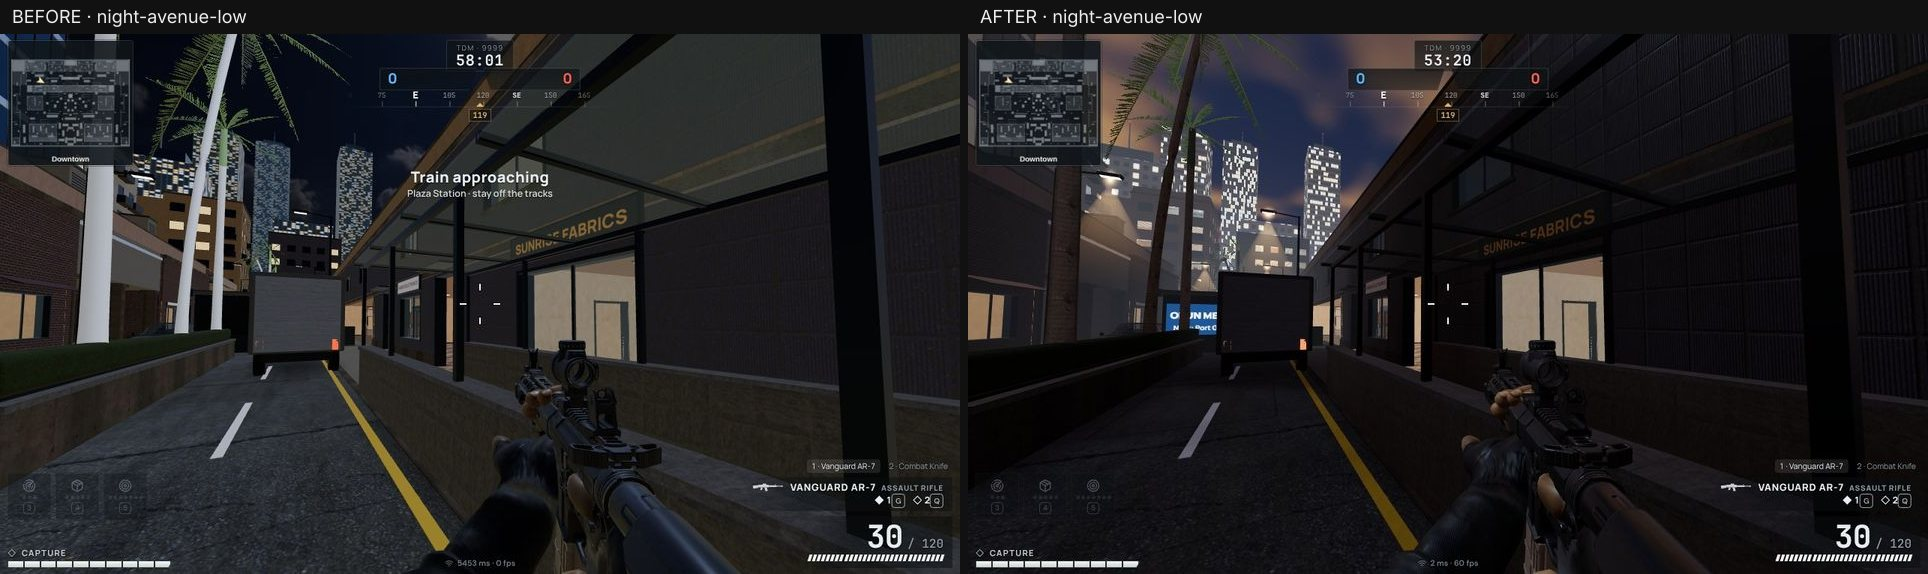
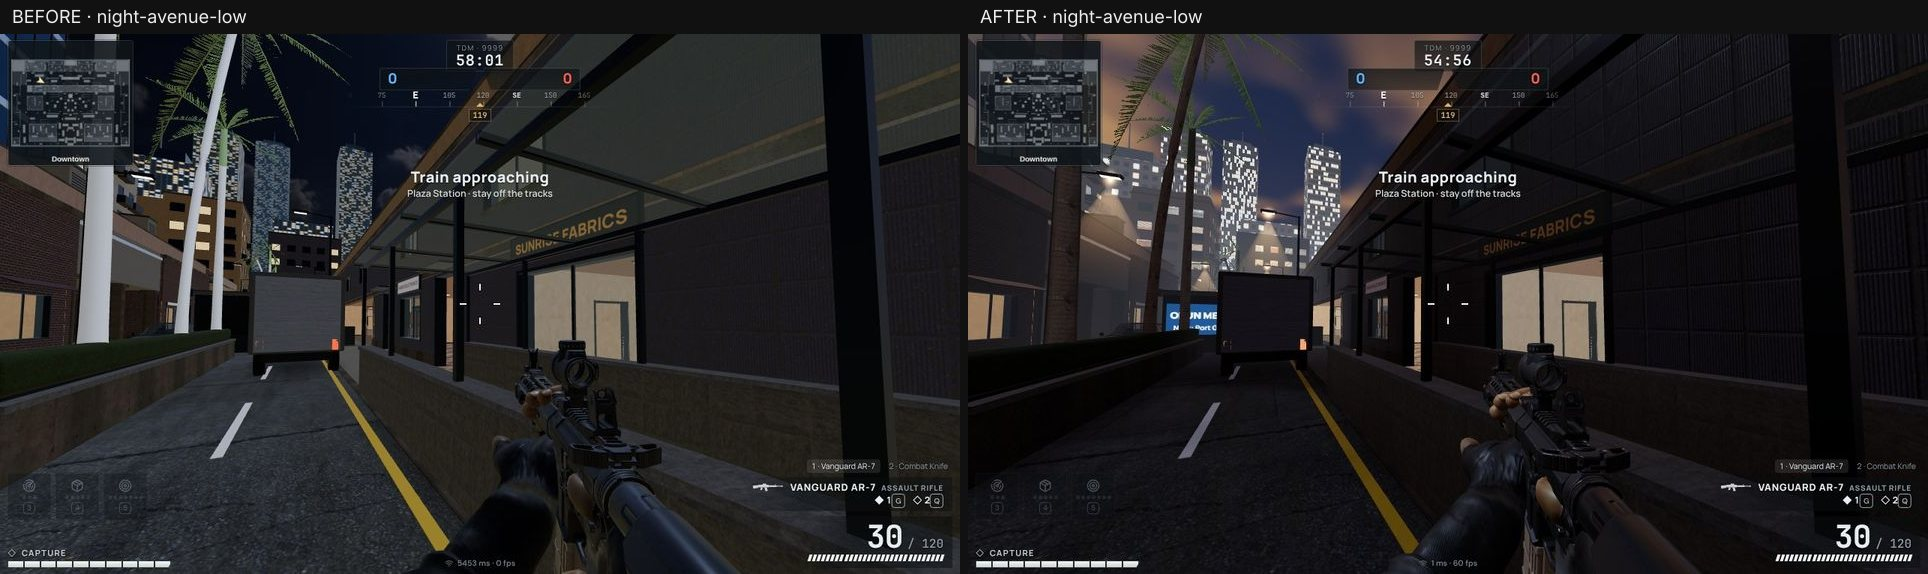
Metropolis: stagger reflection and shadow passes on High; final captures, sheets and report
Final before/after captures (Low full resolution; High at 50 % render scale for both
sets), comparison sheets, measured draw-call and triangle tables, profile table, and
what remains. Splashes toned down on dark surfaces.

Claude-Session: https://claude.ai/code/session_01UdreyfsdfdWfz82hBMYpLk

diff --git a/src/arena/Scene.tsx b/src/arena/Scene.tsx
@@ -713,7 +713,7 @@ function World({ mapId, q }: { mapId: string; q: ArenaQuality }) {
       vm.sun.color.copy(citySun?.color ?? lib.sun.color);
       vm.sun.position.copy(v1).multiplyScalar(3); vm.sun.target.position.set(0, 0, 0);
       // (Metropolis: never below a soft key from above, so a black rifle under an overcast or night sky still reads.)
-      const want = Math.max(atmo ? 1.1 : 0, (cityLight?.strength ?? lib.sun.irradiance) * .8 * (vm.sunSeen ? 1 : .08)) + (now - vm.flashAt < 60 ? 2.5 : 0);
+      const want = Math.max(atmo ? 1.6 : 0, (cityLight?.strength ?? lib.sun.irradiance) * .8 * (vm.sunSeen ? 1 : .08)) + (now - vm.flashAt < 60 ? 2.5 : 0);
       vm.sun.intensity += (want - vm.sun.intensity) * Math.min(1, dt * 8);
       vm.vmScene.environmentIntensity = (cityLight?.env ?? .95) * (atmo ? 1.6 : 1) * (1 - vm.indoor * .37) * (camera.position.y < 4.6 && atmo ? .5 : 1);
       vm.vmScene.environmentRotation.setFromQuaternion(q1.copy(camera.quaternion).invert());
@@ -735,8 +735,9 @@ function World({ mapId, q }: { mapId: string; q: ArenaQuality }) {
     r.info.reset();
     // Exposure follows the eye: opening up indoors and in the station, closing again outside.
     r.toneMappingExposure = atmo ? adapt(Math.min(dt, .1), vm.indoor, camera.position.y < 4.6) : .82;
-    // (High redraws it every second frame — a puddle's image lagging one frame is invisible; Ultra every frame.)
-    if (reflection && world?.city && (q.aoHigh || frameNo.current % 2 === 0)) reflection.render(r, scene, camera as THREE.PerspectiveCamera, [world.city.rainGroup, fx.effects.group, objectives.g].filter(Boolean) as THREE.Object3D[]);
+    // (High redraws it every second frame — a puddle's image lagging one frame is invisible; Ultra every frame. On the
+    // frames the sun's shadow is not redrawn, so the two passes never land together.)
+    if (reflection && world?.city && (q.aoHigh || frameNo.current % 2 === 1)) reflection.render(r, scene, camera as THREE.PerspectiveCamera, [world.city.rainGroup, fx.effects.group, objectives.g].filter(Boolean) as THREE.Object3D[]);
     if (composer) { composer.weapon.enabled = vm.holder.visible; composer.c.render(dt); }
     else { r.autoClear = true; r.render(scene, camera); passes.world = r.info.render.triangles; if (vm.holder.visible) { r.autoClear = false; r.clearDepth(); r.render(vm.vmScene, vm.vmCam); r.autoClear = true; } }
     if (QA_HOOKS) (window as unknown as Record<string, unknown>).__arenaBreakdown = () => { const out: Record<string, number> = {}; scene.traverse(o => { const m = o as THREE.InstancedMesh; if (!m.isMesh || !m.visible) return; const n = (m.geometry.index ? m.geometry.index.count : m.geometry.attributes.position.count) / 3 * (m.isInstancedMesh ? m.count : 1); const k = m.name || (m.material as THREE.Material).name || m.type; out[k] = (out[k] ?? 0) + Math.round(n); }); return out; };

diff --git a/src/arena/scene/city/weather.ts b/src/arena/scene/city/weather.ts
@@ -145,7 +145,7 @@ export function createRain(field: ReturnType<typeof heightfield>, street: number
         varying vec2 vUv; varying float vAge; varying vec3 vLit; varying float vA;
         void main() { float d = length(vUv - .5) * 2., r = vAge * .9;
           float ring = smoothstep(.12, 0., abs(d - r)) * (1. - vAge), dots = step(.82, fract(sin(floor(atan(vUv.y - .5, vUv.x - .5) * 3.) * 12.9898) * 437.5)) * smoothstep(.1, 0., abs(d - r * 1.25)) * (1. - vAge);
-          gl_FragColor = vec4(vLit * 1.2, (ring * .3 + dots * .4) * vA);
+          gl_FragColor = vec4(vLit * .9, (ring * .24 + dots * .28) * vA);
           #include <tonemapping_fragment>
           #include <colorspace_fragment>
           #include <fog_fragment>

diff --git a/docs/PHOTOREALISM.md b/docs/PHOTOREALISM.md
@@ -65,7 +65,8 @@ sparkling).
 * `macro` — large-scale tone, warmth and roughness variation in world space: breaks the 2–5 m texture repeat.
 * `grime` — walls: a darker, browner splash zone at the foot, rain-washed runs in patches; also vehicles' lower bodies.
 * `road` — asphalt: rectangular patch repairs with sealed seams, oil stains, faint polished wheel tracks.
-* `wet` — rain: porous surfaces darken, everything gets smoother; walls darken in uneven runs.
+* `wet` — rain: porous surfaces darken, everything gets smoother; walls darken in uneven runs. Anything with a roof,
+  awning or canopy above it (probed in the rain heightfield, a little out from the surface) stays dry.
 * `puddles` — rain on the ground: standing water where the noise is low (flat, mirror-smooth, dark), a damp rim,
   and rings spreading from raindrops (two animated cell layers) only in the water.
 * `reflect` — the planar street reflection (below), read through the rippled normal.
@@ -113,7 +114,8 @@ per region.
 * **Curtains**: one to three cylinders of falling streaks at 16–52 m, depth-tested against buildings and fogged —
   the distance is veiled by rain, not only by fog.
 * **Splashes**: rings and droplet crowns re-seeded each cycle around the player, on the surface beneath.
-* **Lamp halos and light cones** in rain and at night (scattering in wet or dark air).
+* **Lamp halos** in rain and at night, and **light cones** at night only (scattering in wet or dark air; daylight
+  washes beams out). Splashes are faint on dark surfaces.
 * **Planar street reflection** (High, Ultra; rain only): the scene drawn once more from the camera mirrored in the
   street plane at 40 % / 60 % resolution with an oblique near plane 4 cm above the street. Only façades, glass, the
   city's lights, vehicle bodies and the skyline are drawn into it (ground-level geometry is excluded: the pavement
@@ -130,7 +132,8 @@ per region.
 * Smoke and dust use an irregular procedural puff instead of a perfect disc, and take the scene's light level (they
   no longer glow at night).
 * The muzzle flash is a procedural petal flash with a hot core instead of a soft disc.
-* The first-person weapon reflects the baked sky of the variant and dims its reflections in the station.
+* The first-person weapon reflects the baked sky of the variant and dims its reflections in the station; in
+  Metropolis it keeps a minimum soft key light so a black rifle still reads under an overcast or night sky.
 * Weapon models, firing, recoil, reload and inspection animations, hit registration and input are unchanged.
 
 ### Fixes found along the way
@@ -181,9 +184,21 @@ Low's draw calls fall by 35–42 % (the two-region merge) while triangles rise 6
 panes). On a phone the CPU cost of a WebGL draw call usually dominates, so this is expected to be a net gain there —
 **not yet measured on a phone**.
 
-High, rain, street view: 1,255 calls per frame before (631 of them the per-frame sun shadow pass). After: the shadow
-pass every second frame, and the reflection pass every second frame (~85–170 calls with the material whitelist;
-it was ~450 before the whitelist). (Final High numbers below.)
+High (captured at 50 % render scale — full resolution does not deploy reliably in software rendering — with the
+sun's shadow drawn once; same scale before and after):
+
+| View | Calls before → after | Triangles before → after |
+|---|---|---|
+| High · rain · street | 631 → 649 (793 on a frame with the reflection pass) | 0.51 M → 0.58 M (0.66 M) |
+| High · rain · avenue | 711 → 735 (879 with the reflection pass) | 0.97 M → 1.04 M (1.12 M) |
+| High · day · street | 627 → 633 | 0.51 M → 0.55 M |
+| High · night · street | 627 → 637 | 0.51 M → 0.55 M |
+
+The per-frame cost the table leaves out: before, High redrew the sun's shadow map every frame (624 more calls on the
+rain street view, measured: 1,255 in total); after, every second frame. The street reflection (rain only) is
+~144 calls and ~80 k triangles every second frame on High (it was ~450 calls before the material whitelist).
+The two alternate: the shadow pass on even frames, the reflection on odd ones. Net, rain street on High: ~1,255
+calls every frame before; after, ~1,275 on shadow frames and ~795 on reflection frames — about 1,035 on average.
 
 Shader programs (Low, rain): 48 before → 54 after (61 before the shared surface program).
 Arena 3D chunk (`arena-Scene-*.js`, minified): 146.0 KB → 194.3 KB; loaded only with the arena. No new downloads:
@@ -192,8 +207,23 @@ the palm bark is an existing campus texture (433 KB KTX2), everything else is pr
 
 ### Before / after captures
 
-`docs/screenshots/metropolis-photoreal/{before,after}/<weather>-<view>-<profile>.jpg`, side-by-side sheets in
-`compare/` (`node scripts/qa/metropolis-compare.mjs`). Re-run with `LABEL=after node scripts/qa/metropolis-shots.mjs`.
+* Low, full 1280 × 720: `docs/screenshots/metropolis-photoreal/{before,after}/<weather>-<view>-low.jpg` (day, rain,
+  night × street, avenue, rooftop, skyline). The baseline day and rain *skyline* shots were taken before that camera
+  was re-aimed at the skyline, so only the night skyline pair compares the same view.
+* High, 50 % render scale: `{before,after}-high50/<weather>-<view>-high.jpg` (rain, day, night × street, avenue).
+* Side-by-side sheets: `compare/` (`node scripts/qa/metropolis-compare.mjs`; `BEFORE=before-high50
+  AFTER=after-high50` for the High pairs). The full-resolution High baseline of the rain street (and others) is kept
+  in `before/` for reference.
+* Harness: `LABEL=after node scripts/qa/metropolis-shots.mjs` (QUALITIES, VARIANTS, VIEWS, SCALE). Under software
+  rendering it raises the server heartbeat to 90 s, freezes drawing during each screenshot, verifies the match is
+  still running afterwards, and retries a dropped view or deployment.
+
+### Tests and builds
+
+* `npm test`: **340 passed, 0 failed** (unchanged count).
+* `npm run build` and `npm run verify:release`: pass (precache 2.49 MB, no QA hooks in production).
+* Not run in this pass: the long Playwright suites against the account/Postgres stack (`tests/browser-*.mjs`); the
+  Metropolis gameplay suite (`tests/arena-metropolis.test.mjs`, part of `npm test`) passes.
 
 
 ## 5. What remains (honestly)
